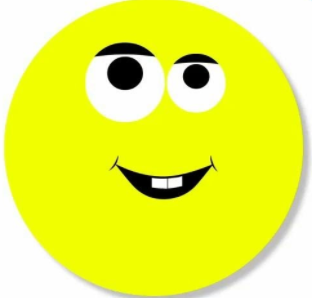
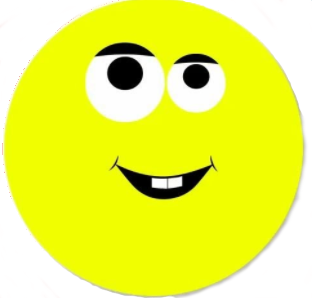
minor style changes

diff --git a/public/styles/styles.css b/public/styles/styles.css
@@ -13,7 +13,8 @@ body {
 }
 
 #pk-board img {
-  height: 100px;
+  height: 20vh;
+  margin-top: 5px;
   /*width: 100px;*/
 }
 
